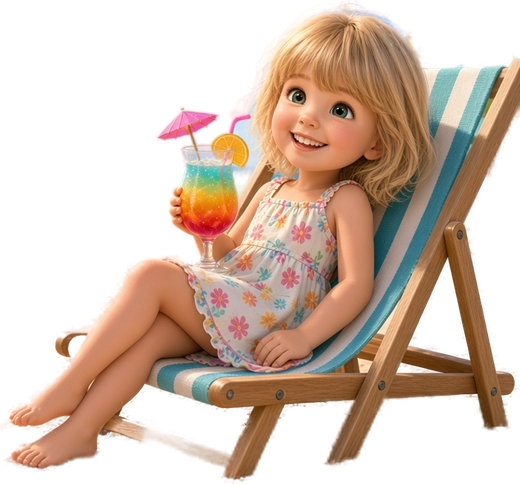
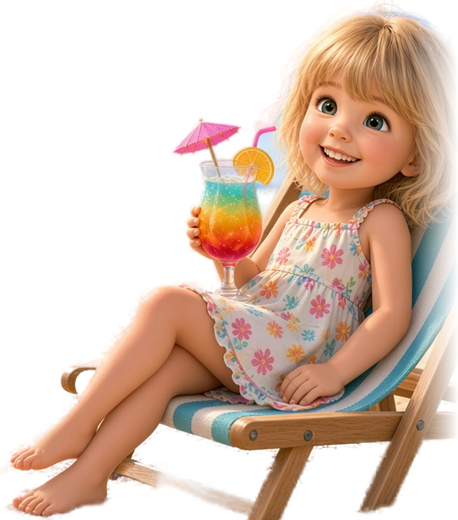
Лето: Катя крупнее — шезлонг подрезан, колонка шире

diff --git a/sw.js b/sw.js
@@ -1,6 +1,6 @@
 // Работа без интернета: приложение, картинки и озвучка сохраняются в телефоне.
 // Открывается сохранённая версия, а в фоне подтягивается свежая — правки приходят сами.
-const CACHE = "katya-tracker-v1";   // после переозвучки или новых картинок — увеличить номер
+const CACHE = "katya-tracker-v2";   // после переозвучки или новых картинок — увеличить номер
 const FILES = [
   "./", "./index.html", "./manifest.webmanifest", "./icon-192.png", "./icon-512.png",
   "./img/girl-autumn.png", "./img/girl-winter.png", "./img/girl-spring.png", "./img/girl-summer.png",

diff --git a/index.html b/index.html
@@ -272,6 +272,8 @@ header {
   gap: 4px;
   min-height: 230px;
 }
+/* летом Катя лежит в шезлонге — картинка широкая, даём ей больше места (летние месяцы короткие) */
+body[data-season="summer"] header { grid-template-columns: 52% minmax(0, 1fr); }
 
 .boy-wrap {
   position: relative;
